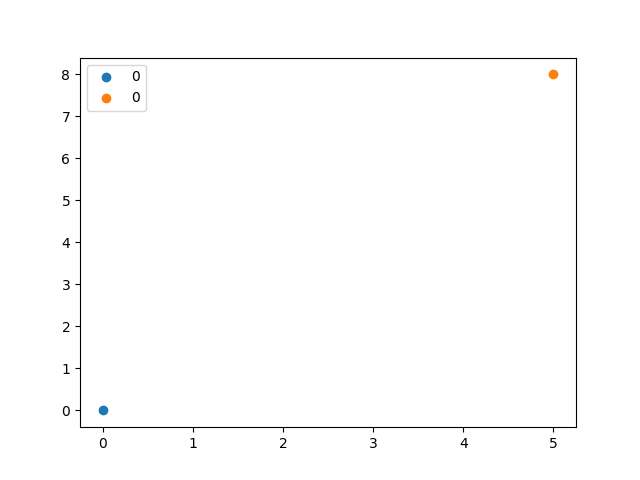
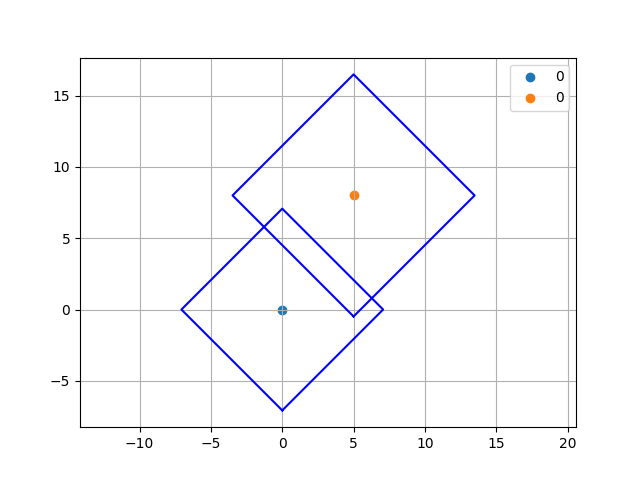
2D plotting

diff --git a/main_in_2D.py b/main_in_2D.py
@@ -57,8 +57,9 @@ class AbstractAuxeticCell:
         self.cell_index = 0  # default all cells to be index zero until otherwise stated
         self.pos_x = x
         self.pos_y = y
-        self.arm_length = 10  # default radius [mm]
-        self.alpha = 1  # default cells at contracted state
+        self.arm_length = 10    # default radius [mm]
+        self.angle = 45       # deg
+        self.alpha = 1          # default cells at contracted state
         self.fixed = False
         # Keep a list of all other cell indexes connected to this cell
         self.connections = []
@@ -113,6 +114,12 @@ class AbstractAuxeticCell:
                 print(mag_V)
                 a_cell.pos_x = self.pos_x + V[0] * 1 / self.arm_length
                 a_cell.pos_y = self.pos_y + V[1] * 1 / self.arm_length
+                # when mating, set angle equal to one another within gap
+                # if close, keep as is
+                # TODO: backlash gap angle if then statement
+                # if not within gap, set equal
+                a_cell.angle = self.angle
+                # check dilation with backlash gap and set accordingly
             else:
                 print('other cell is fixed')
                 # Try to move self
@@ -138,8 +145,31 @@ def plot_abstract_cells(list_cells):
     plt.figure(0)
     for cell in list_cells:
         print(vars(cell))
+        # Plot cell boundary square
+        cx, cy = cell.pos_x, cell.pos_y
+        theta = np.radians(cell.angle)
+        # Define square corners relative to center (unrotated)
+        half_side = (cell.arm_length * cell.alpha) / 2
+        corners = np.array([
+            [-half_side, -half_side],
+            [ half_side, -half_side],
+            [ half_side,  half_side],
+            [-half_side,  half_side],
+            [-half_side, -half_side]  # Close the square
+        ])
+        # Rotation matrix
+        rotation_matrix = np.array([
+            [np.cos(theta), -np.sin(theta)],
+            [np.sin(theta),  np.cos(theta)]
+        ])
+        # Apply rotation and translation
+        rotated_corners = (rotation_matrix @ corners.T).T + np.array([cx, cy])
+        plt.plot(rotated_corners[:, 0], rotated_corners[:, 1], 'b-')
+        # Plot cell centers
         plt.scatter(cell.pos_x, cell.pos_y, label=cell.cell_index)
         plt.legend()
+        plt.axis('equal')
+        plt.grid(True)
         plt.savefig("TRL_abstract_cells_plot.png")
     plt.show()
     plt.close()
@@ -572,11 +602,14 @@ if __name__ == '__main__':
     # AbstractAuxeticCell tests
     cell1 = AbstractAuxeticCell(x=0, y=0)
     cell2 = AbstractAuxeticCell(x=50, y=80)
+    cell2.alpha = 1.2
     cell1.fixed = True
     cell1.get_distance_between_cells(cell2)
     cell1.get_connected_distance_between_cells(cell2)
+    # Plot before mating cells
+    plot_abstract_cells([cell1, cell2])
     cell1.connect_cell(cell2)
-
+    # Plot after mating cells
     plot_abstract_cells([cell1, cell2])
 
     # Parameters for the scissor mechanism
